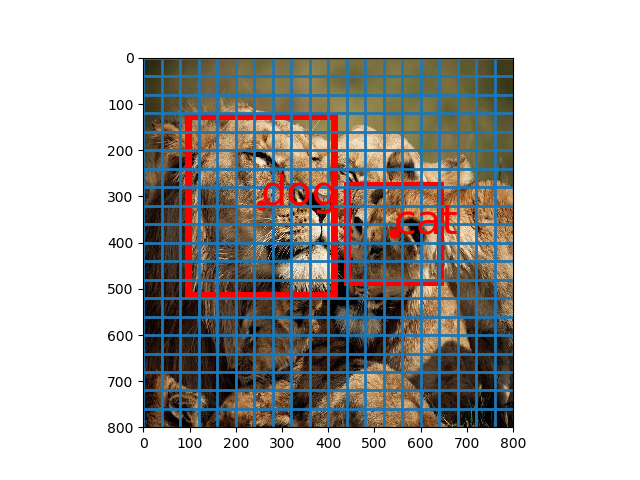
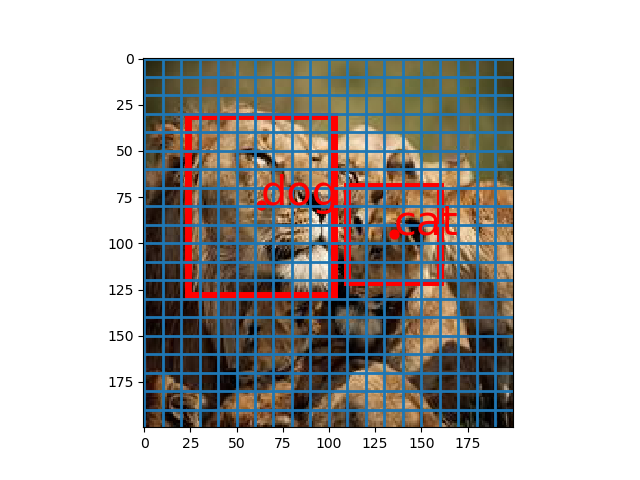
added pipeline test and target script

diff --git a/imageManipulations.py b/imageManipulations.py
@@ -8,7 +8,8 @@ Created on Thu Apr 11 01:16:35 2019
  
 from PIL import Image
 import copy
-
+import numpy as np
+import math
 
 
 
@@ -33,7 +34,7 @@ def rotateImage(readFilePath, writeFilePath,rotation = 0):
     return True
 
 
-def rescaleObjDict(OrigImageDict,OrijObjectList,resizeWidth,resizeHeight):
+def _rescaleObjDict(OrigImageDict,OrijObjectList,resizeWidth,resizeHeight):
     
     """
     rescales objDict with resize width and height
@@ -47,21 +48,23 @@ def rescaleObjDict(OrigImageDict,OrijObjectList,resizeWidth,resizeHeight):
     ratioY =  resizeHeight/OrigImageDict['height']
     
     for eachObj in alteredObjectList:
-        
+
        eachObj['xmin'] = int(eachObj['xmin'] * ratioX)
        eachObj['ymin'] = int(eachObj['ymin'] * ratioY)
        eachObj['xmax'] = int(eachObj['xmax'] * ratioX)
        eachObj['ymax'] = int(eachObj['ymax'] * ratioY)
-        
+       
     
     return alteredObjectList
 
 
-def rotateObjDict():
+def rotateObjDict(OrigImageDict,OrijObjectList,rotate = 0):
+    
+    
     
     pass
 
-def generateAlteredDict(OrigImageDict,OrijObjectList,dictOfTranslations):
+def ResizeDict(OrigImageDict,OrijObjectList,dictOfTranslations):
     
     
     """
@@ -76,16 +79,23 @@ def generateAlteredDict(OrigImageDict,OrijObjectList,dictOfTranslations):
     ###prepare image dict
     ## change filename if required
     
-    AlteredImageDict = OrigImageDict.copy()
+    AlteredImageDict = copy.deepcopy(OrigImageDict)
     AlteredImageDict['isOriginal'] = False
     
     ### object list
     
-    alteredObjectList = rescaleObjDict(OrigImageDict,OrijObjectList,resizeHeight,resizeHeight)
+    alteredObjectList = _rescaleObjDict(OrigImageDict,OrijObjectList,resizeWidth,resizeHeight)
     AlteredImageDict['width']= resizeWidth
     AlteredImageDict['height'] = resizeHeight
     
     return AlteredImageDict,alteredObjectList 
+
+
+
+
+
+
+
     
 if __name__ == "__main__":
     
@@ -98,14 +108,14 @@ if __name__ == "__main__":
     origImgDict, origObjList = parseXMLtoDict(inpFileXML)
     
     ##generate new image
-    imageResize(inpFilePic,outputImg,800,800)
+    imageResize(inpFilePic,outputImg,200,200)
     
-    dictOfTranslations = {'resizeWidth' : 800, 'resizeHeight' : 800}
-    newImageDict,newObjectList  = generateAlteredDict(origImgDict,origObjList,dictOfTranslations)
+    dictOfTranslations = {'resizeWidth' : 200, 'resizeHeight' : 200}
+    newImageDict,newObjectList  = ResizeDict(origImgDict,origObjList,dictOfTranslations)
     
     gridImg = plotGridOnImg(outputImg,20,20,newObjectList)
     gridImg.savefig("griddedImage")
+    rotateImage(inpFilePic,'rotaion.jpg',360)
     
-    
-    
+
     

diff --git a/plotGridAndBound.py b/plotGridAndBound.py
@@ -33,7 +33,8 @@ def addBoundingBox(plt,objectList):
         plt.scatter(x=[centerX], y=[centerY], c='r', s=40)
         plt.text(centerX, centerY, eachObj['name'], fontsize = 30 ,color = 'red')
         ax.add_patch(rect)
-        
+    
+    return plt
     
     
     
@@ -46,7 +47,7 @@ def plotGridOnImg(filepath,numXGrids,numYGrids,objectList):
     
     plt.clf()
     img = plt.imread(filepath)
-    img  = np.array(img)
+#    img  = np.array(img)
     yPixels,xPixels,channels = img.shape
     
     xSteps,ySteps = xPixels//numXGrids , yPixels//numYGrids
@@ -64,14 +65,17 @@ def plotGridOnImg(filepath,numXGrids,numYGrids,objectList):
     
     addBoundingBox(plt,objectList)
 #    
-#    rect = patches.Rectangle((0,0),400,300,linewidth=1,edgecolor='r',facecolor='none')
-#    ax = plt.gca()
-#    ax.add_patch(rect)
+
+    ax = plt.gca()
+#    ax.figure.figimage(img,0,0)
+#    ax.add_image(img)
     plt.imshow(img)
-    plt.show()
+
+    
     return plt
 
 if __name__ == '__main__':
     filepath = "C:/Users/ntihish/Pictures/lions-cubs-kenya_53922_990x742.jpg"
+    imageDict, objectList = parseXMLtoDict("C:/Users/ntihish/Documents/IUB/Deep Learning/Project/Train images/annotations/xmls/Arla-Ecological-Medium-Fat-Milk_001.xml")
     gridImg = plotGridOnImg(filepath,6,6,objectList)
     gridImg.savefig("griddedImage")

diff --git a/assigngrid.py b/assigngrid.py
@@ -3,7 +3,7 @@
 
 
 
-def get_center(bb_x_min, bb_y_min, bb_x_max, bb_y_max):
+def _get_center(bb_x_min, bb_y_min, bb_x_max, bb_y_max):
     x_bb_center = (bb_x_min + bb_x_max) / 2
     y_bb_center = (bb_y_min + bb_y_max) / 2
     
@@ -14,7 +14,7 @@ def get_center(bb_x_min, bb_y_min, bb_x_max, bb_y_max):
 
 
 
-def get_grid_position(image_width, image_height, x_num_grids, y_num_grids, box_center_tuple):
+def _get_grid_position(image_width, image_height, x_num_grids, y_num_grids, box_center_tuple):
     width_cell = image_width / x_num_grids
     height_cell = image_height / y_num_grids
     
@@ -42,10 +42,10 @@ def assign_grid(image_dict, object_dict, x_num_grids, y_num_grids):
     image_height = image_dict['height']
     image_depth = image_dict['depth']
     
-    box_center_tuple = get_center(bb_x_min, bb_y_min, bb_x_max, bb_y_max)
+    box_center_tuple = _get_center(bb_x_min, bb_y_min, bb_x_max, bb_y_max)
 #    print(box_center_tuple)
     
-    return get_grid_position(image_width, image_height, x_num_grids, y_num_grids, box_center_tuple)    
+    return _get_grid_position(image_width, image_height, x_num_grids, y_num_grids, box_center_tuple)    
 
 
 

diff --git a/XMLParser.py b/XMLParser.py
@@ -37,7 +37,19 @@ def parseXMLtoDict(fileName):
     
     objectList = []
     ###object dict
-    for eachObj in dictOfAnotations['annotation']['object']:
+    
+    origListOfObjs = []
+    
+    ##test if its a single object hence not in a list 
+    if not isinstance(dictOfAnotations['annotation']['object'],(list,)):
+        
+        origListOfObjs.append(dictOfAnotations['annotation']['object'])
+    
+    ### if its multiple objects
+    elif isinstance(dictOfAnotations['annotation']['object'],(list,)):
+        origListOfObjs = dictOfAnotations['annotation']['object']
+    
+    for eachObj in origListOfObjs :
         objectDict = {}
         
         objectDict['name'] = eachObj['name']
@@ -56,4 +68,4 @@ def parseXMLtoDict(fileName):
 
 if __name__ == '__main__':
     
-    imageDict, objectList = parseXMLtoDict("C:/Users/ntihish/Documents/IUB/Deep Learning/Project/Git Repo/product-recognition/twoObjectsCorrect.xml")
+    imageDict, objectList = parseXMLtoDict("C:/Users/ntihish/Documents/IUB/Deep Learning/Project/Train images/annotations/xmls/Arla-Ecological-Medium-Fat-Milk_001.xml")

diff --git a/generateTargetVariable.py b/generateTargetVariable.py
@@ -1,0 +1,41 @@
+# -*- coding: utf-8 -*-
+"""
+Created on Thu Apr 11 19:06:37 2019
+
+@author: nithish k
+"""
+
+import imageManipulations
+import plotGridAndBound
+import XMLParser
+import assigngrid
+
+
+xmlFile =  "C:/Users/ntihish/Documents/IUB/Deep Learning/Project/Git Repo/product-recognition/sample_files/twoObjectsCorrect.xml"
+
+imageDict, objectList = XMLParser.parseXMLtoDict(xmlFile)
+
+
+def genTargetArray(imgFile,imageDict, objectList,xNumGrid,yNumGrid,classMappingDict):
+    
+    """
+    """
+    
+    numClasses = len(classMappingDict)
+    depth = 1+ 4 + numClasses  ## pc + 4 bb dims + numclasses
+    
+    targetArray = np.zeros((xNumGrid, yNumGrid , depth ))
+    for eachObj in objectList:
+        gridRow,gridCol = assigngrid.assign_grid(imageDict,eachObj,xNumGrid,yNumGrid)
+        objVector = np.zeros((depth))
+        objVector[0] = 1 ### assign probOfObj
+        ### call normalise dims
+        objVector[1:5] = normwlise
+        targetArray[gridRow,gridCol,:]
+        
+    
+    
+    
+    
+    
+    

diff --git a/PipelineTest.py b/PipelineTest.py
@@ -1,0 +1,32 @@
+# -*- coding: utf-8 -*-
+"""
+Created on Thu Apr 11 17:45:10 2019
+
+@author: nithish k
+"""
+
+
+
+import imageManipulations
+import plotGridAndBound
+import XMLParser
+import assigngrid
+
+
+
+    
+inpFilePic = "C:/Users/ntihish/Documents/IUB/Deep Learning/Project/Train images/images/Arla-Ecological-Medium-Fat-Milk_001.jpg"
+inpFileXML = "C:/Users/ntihish/Documents/IUB/Deep Learning/Project/Train images/annotations/xmls/Arla-Ecological-Medium-Fat-Milk_001.xml"
+outputImg = 'C:/Users/ntihish/Documents/IUB/Deep Learning/Project/Git Repo/product-recognition/sample_files/resized.jpg'
+
+origImgDict, origObjList = XMLParser.parseXMLtoDict(inpFileXML)
+
+assigngrid
+
+
+##generate new image
+#imageResize(inpFilePic,outputImg,29,29)
+
+
+gridImg = plotGridAndBound.plotGridOnImg(inpFilePic,20,20,origObjList)
+gridImg.savefig(outputImg)
